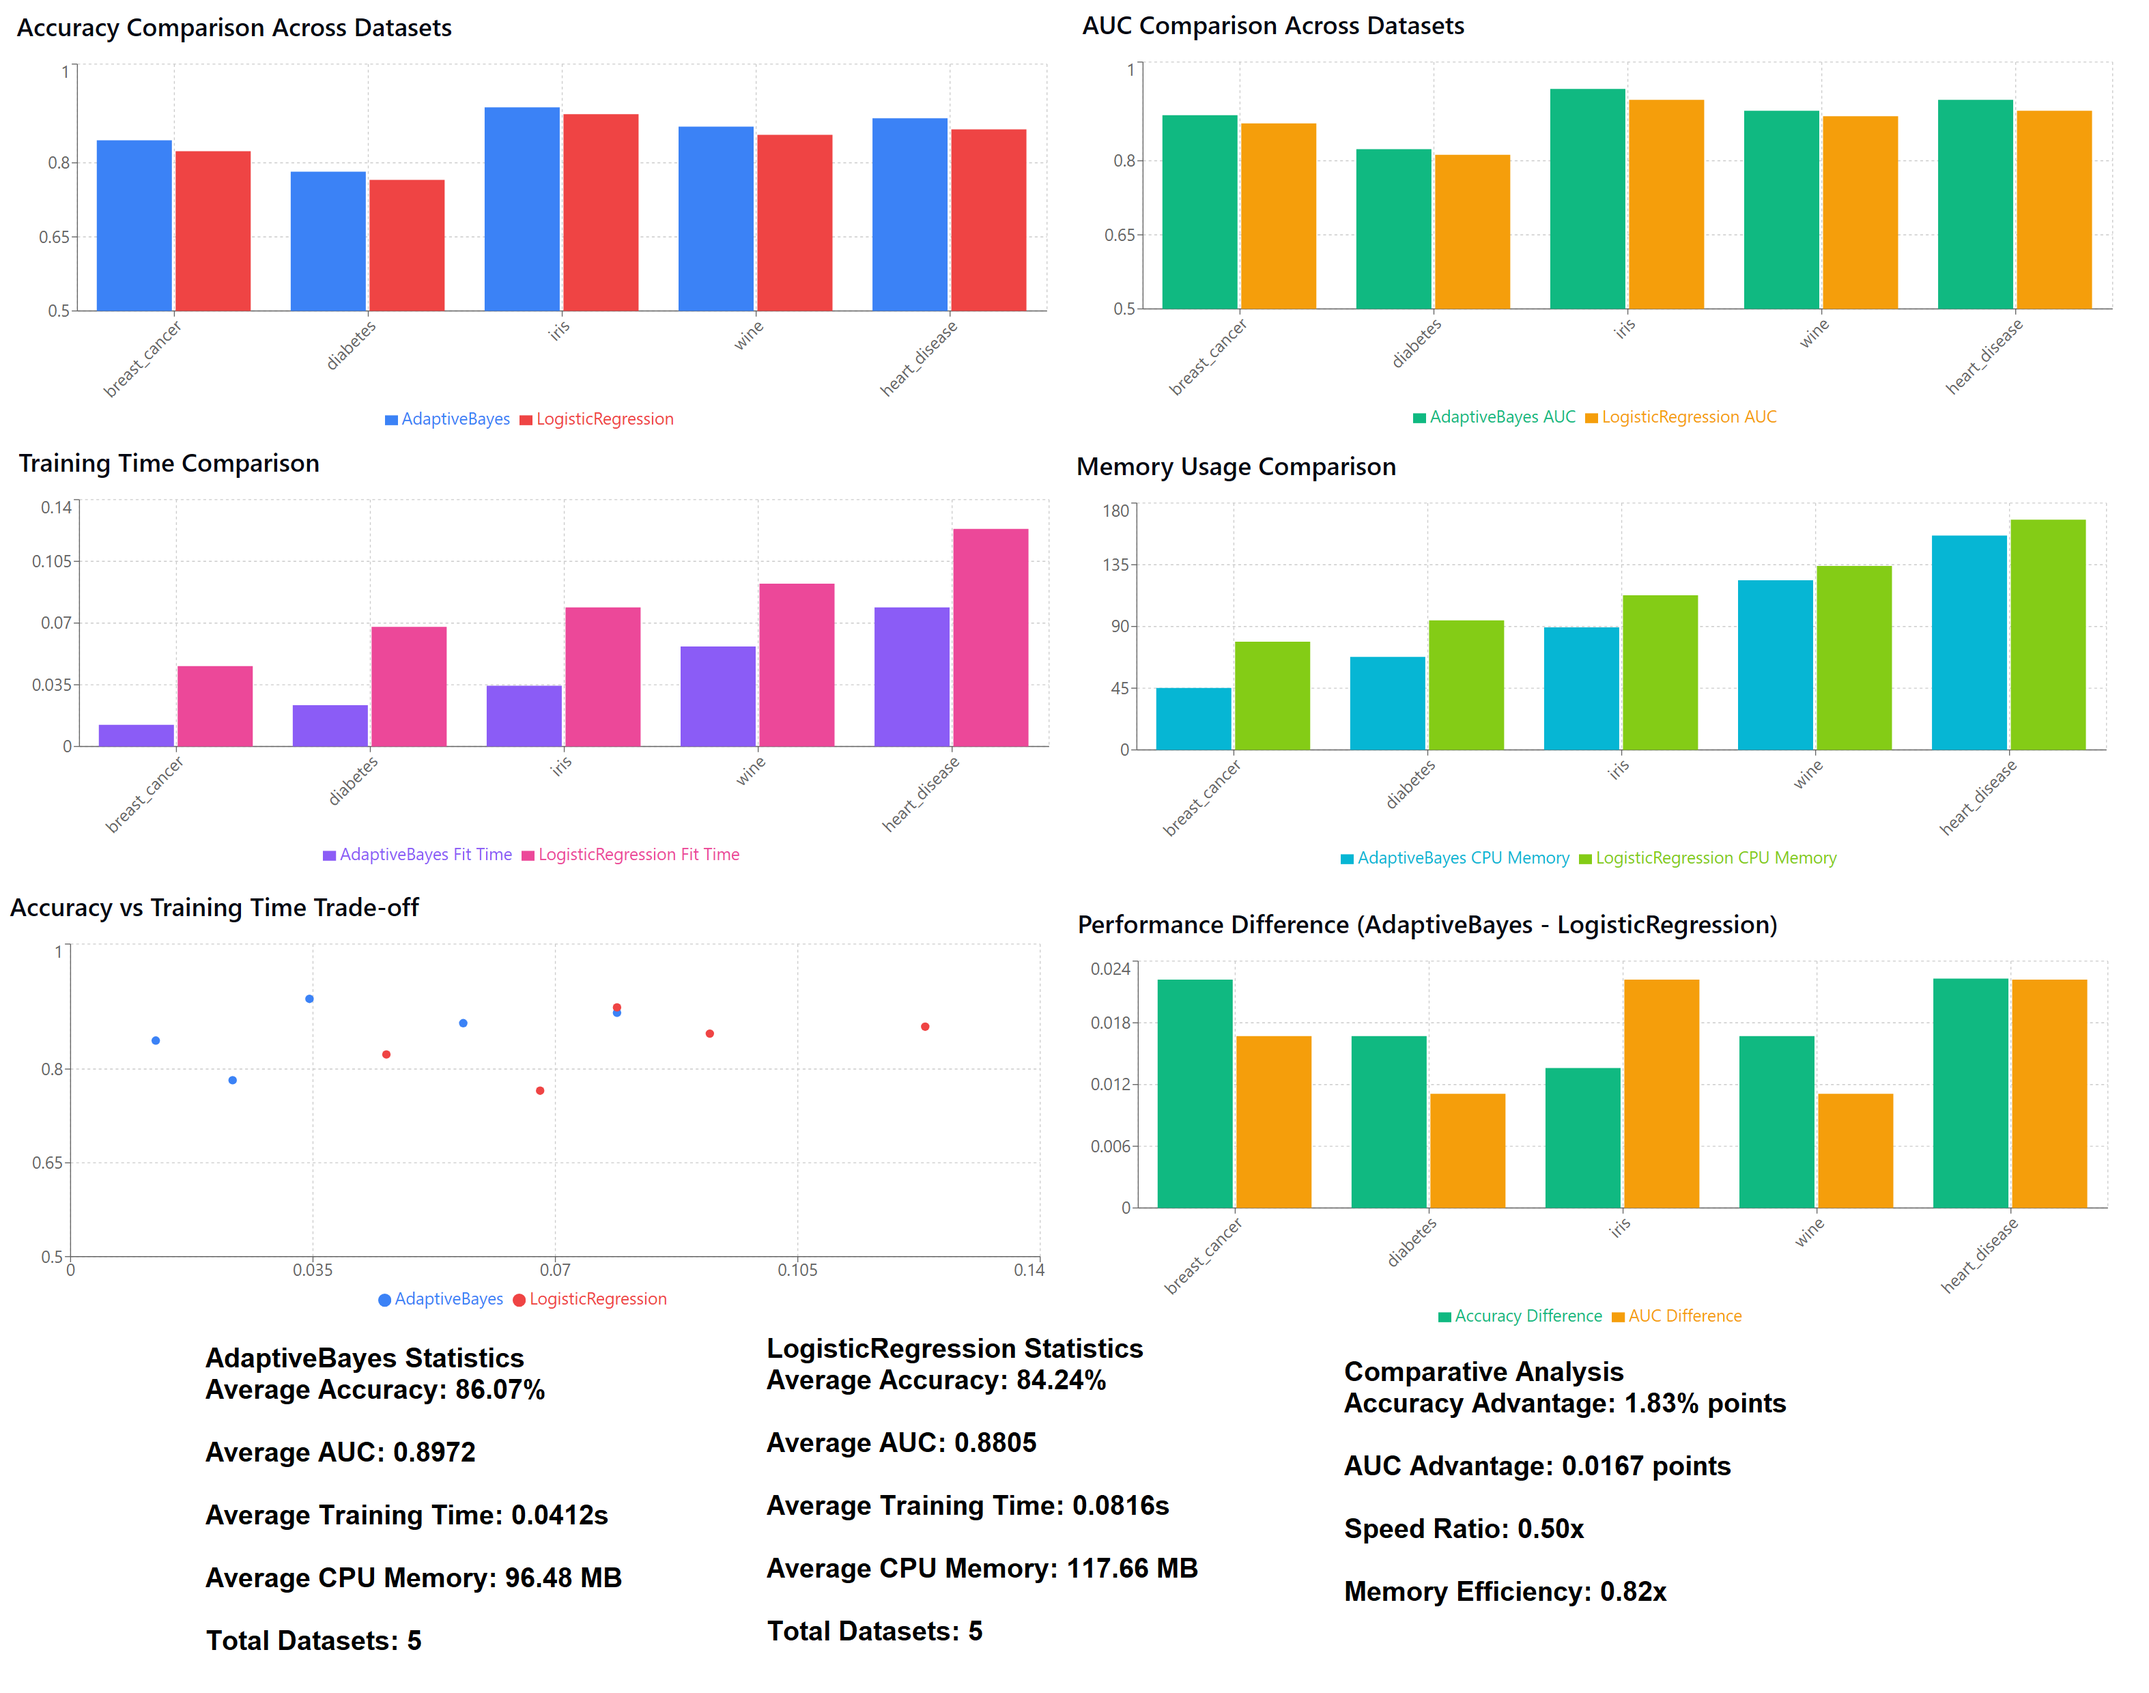
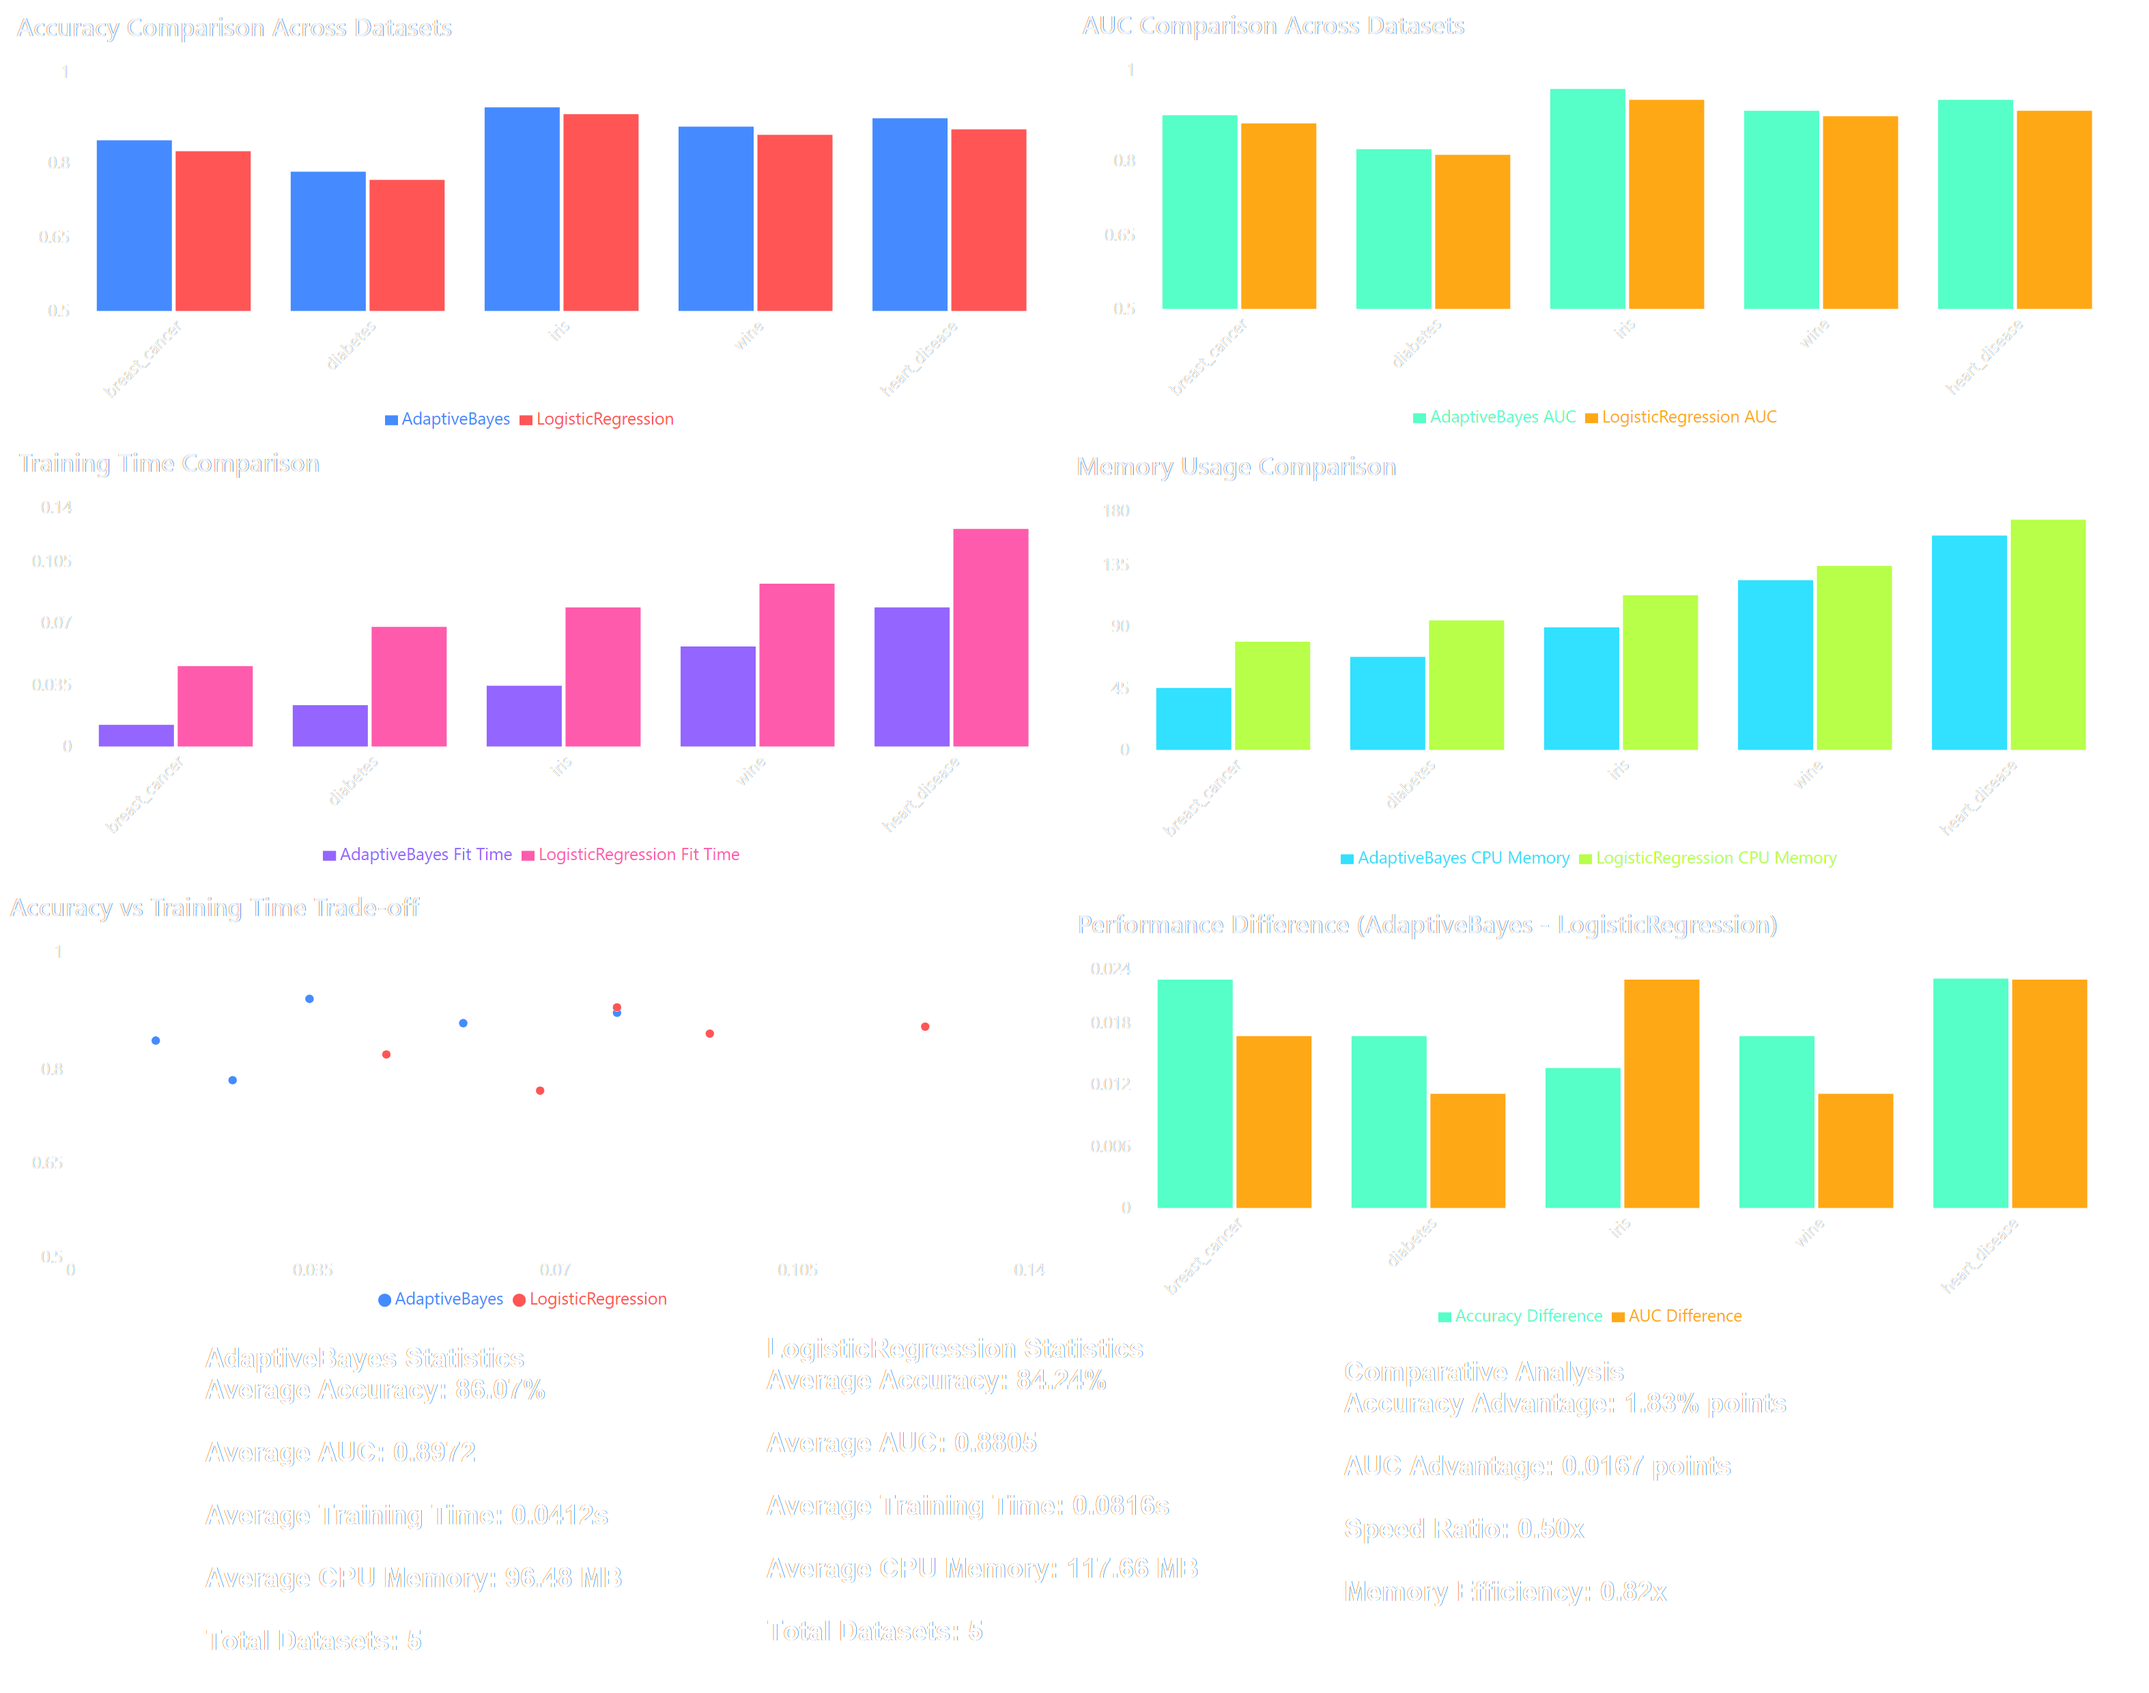
readmy corrected

diff --git a/README.md b/README.md
@@ -164,4 +164,16 @@ AdaptiveBayes shows promising computational efficiency and can replace LogisticR
 
 ---
 
+# Authors
+
+- [@sergiikavun](https://www.linkedin.com/in/sergii-kavun/)
+
+
+# References
+
+For citing you should use:
+
+Sergii Kavun. (2025). s-kav/adaptive_bayes: version 1.0. AdaptiveBayes vs LogisticRegression: Benchmark Analysis. Zenodo. https://doi.org/10.5281/zenodo.17184114
+
+[![DOI](https://zenodo.org/badge/1062498258.svg)](https://doi.org/10.5281/zenodo.17184114)
 
